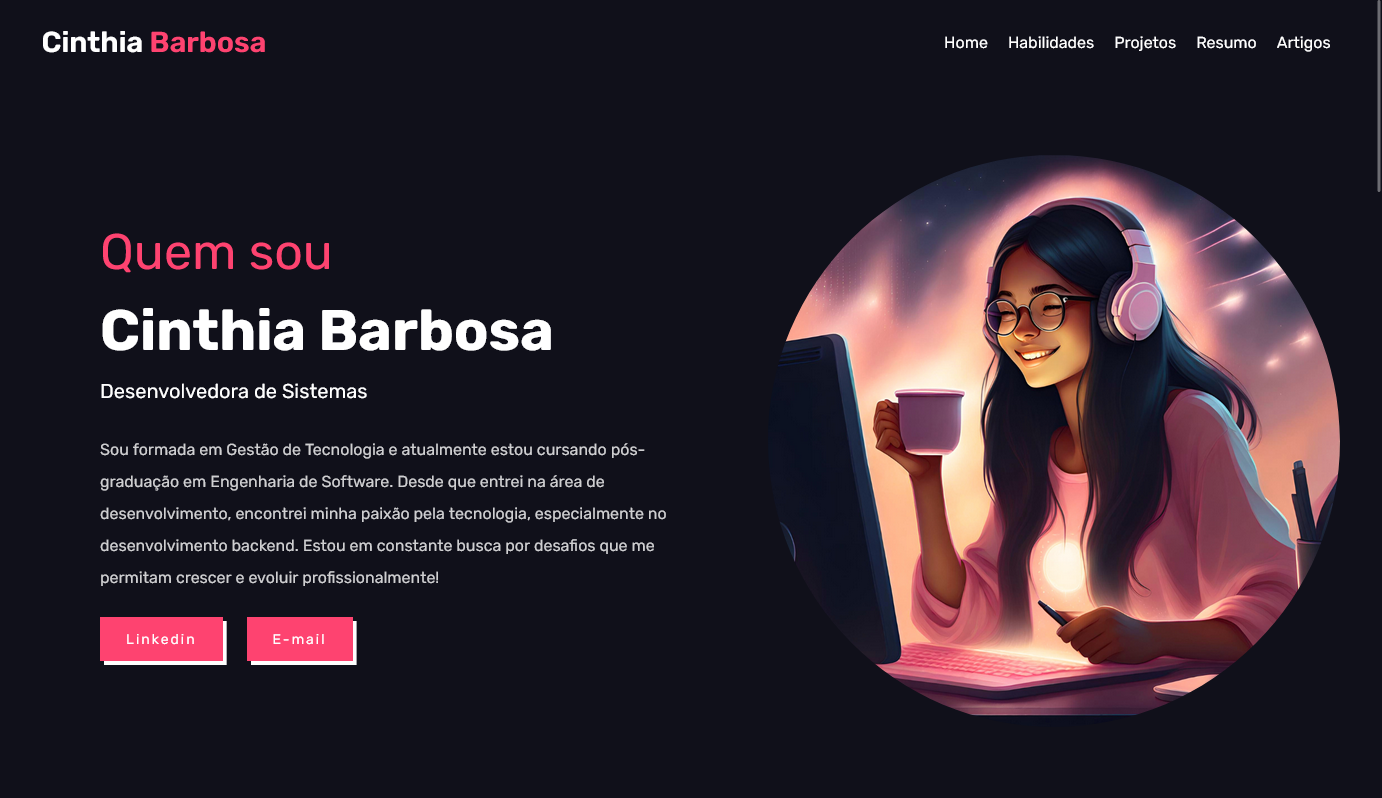
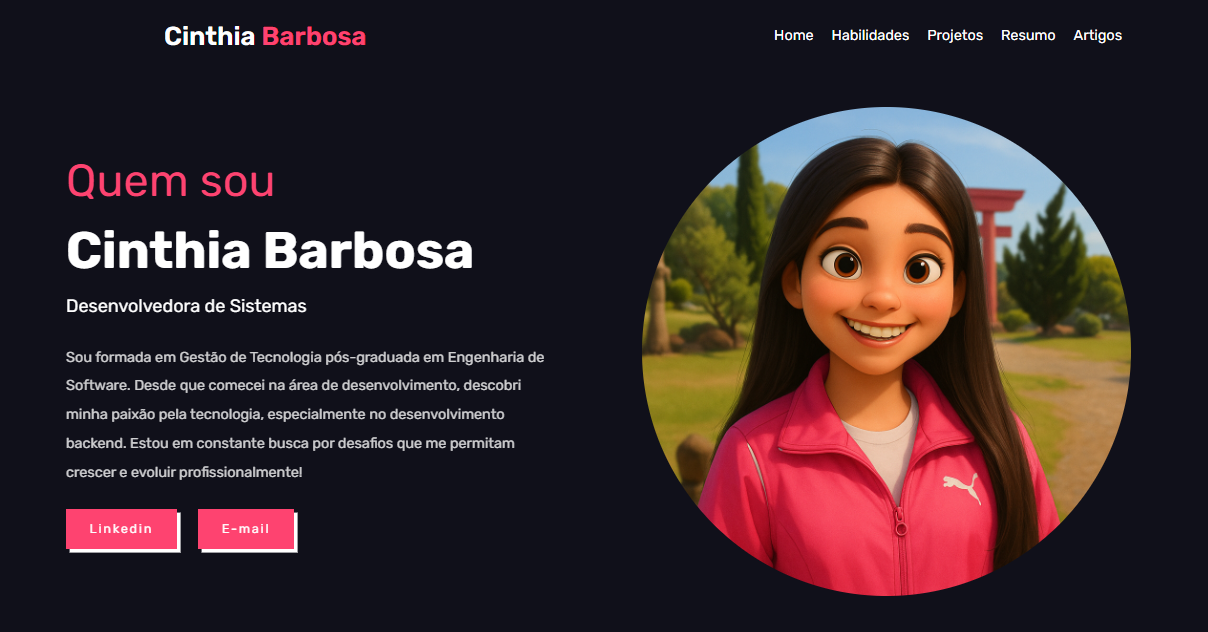
update image

diff --git a/index.html b/index.html
@@ -158,7 +158,7 @@
      </section>
 
       <div class="copyright">
-         <p>Feito por Cinthia Barbosa - 2022 - 2024</p>
+         <p>Feito por Cinthia Barbosa - 2022 - 2025</p>
       </div>
       <script src="https://unpkg.com/scrollreveal"></script>
       <!----------- link to javascript------------------>
